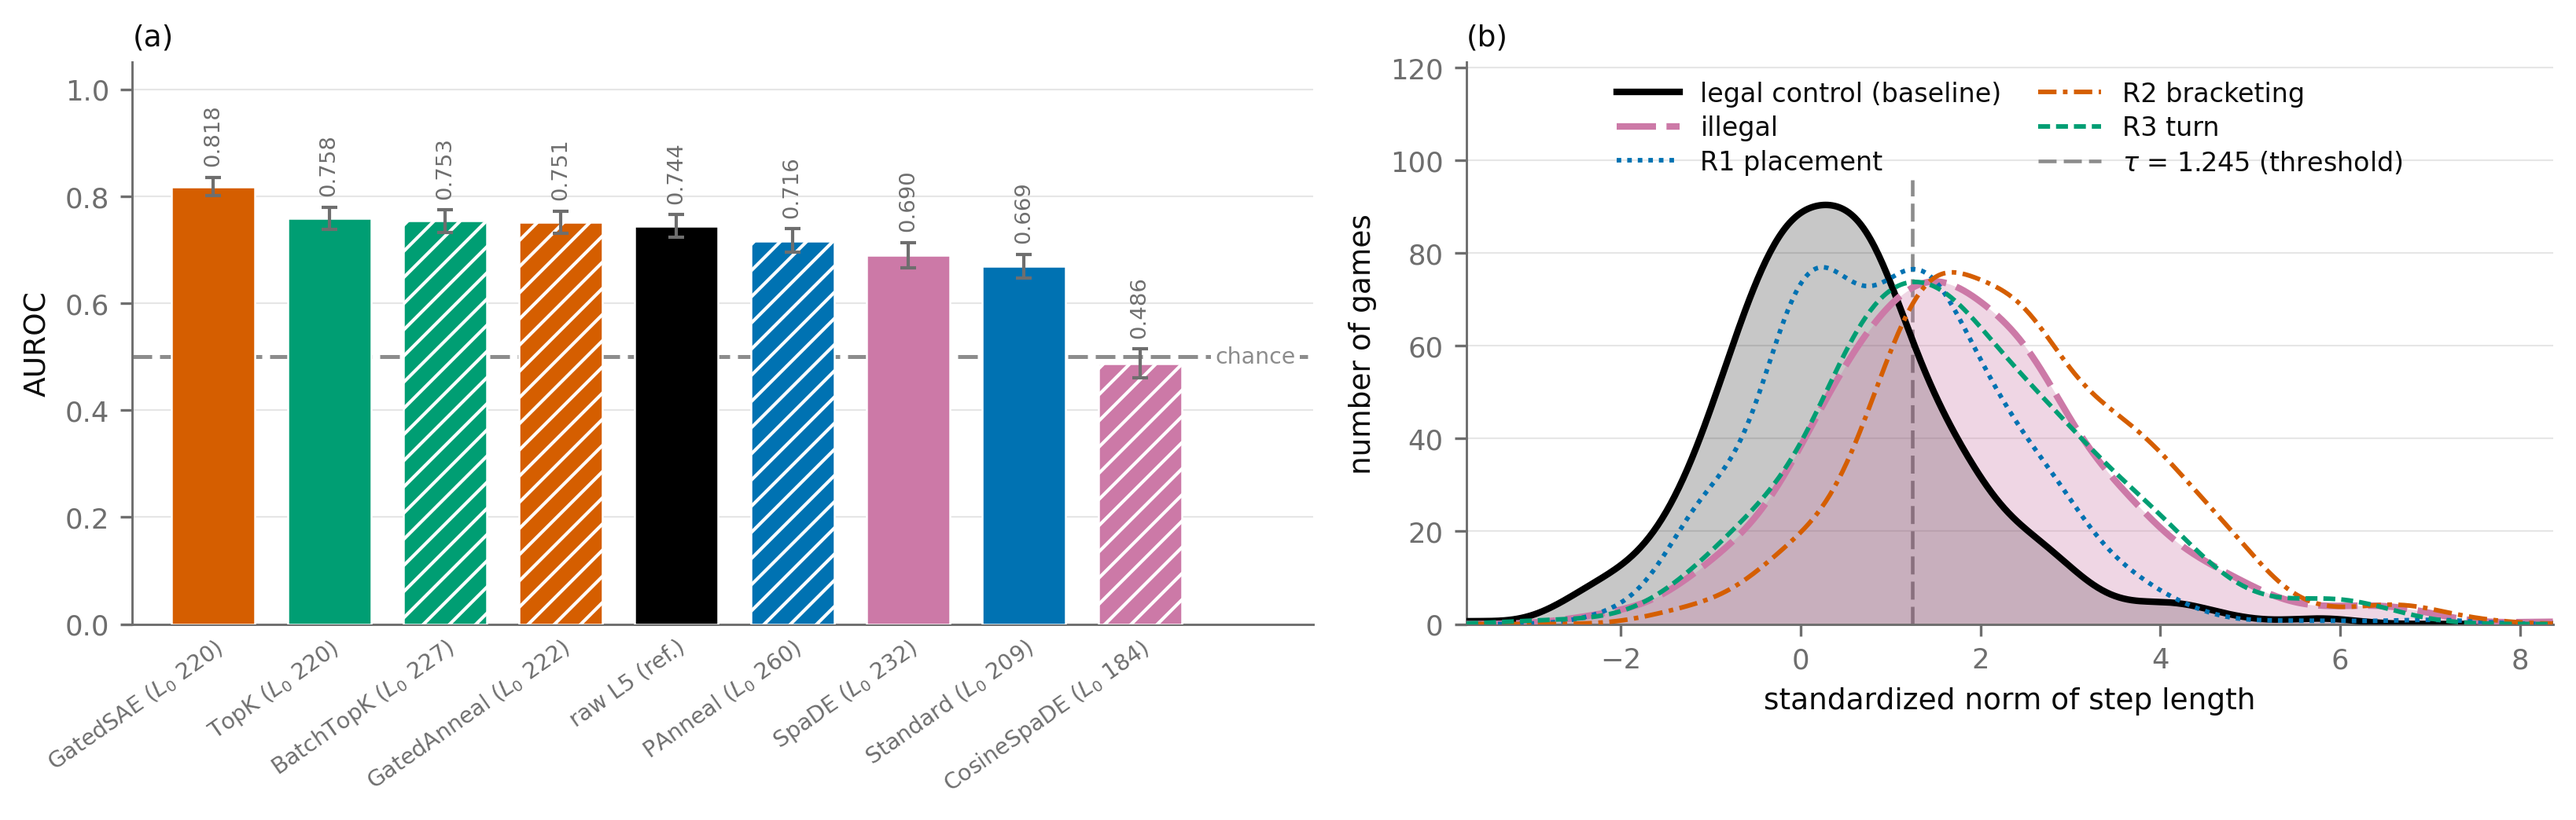
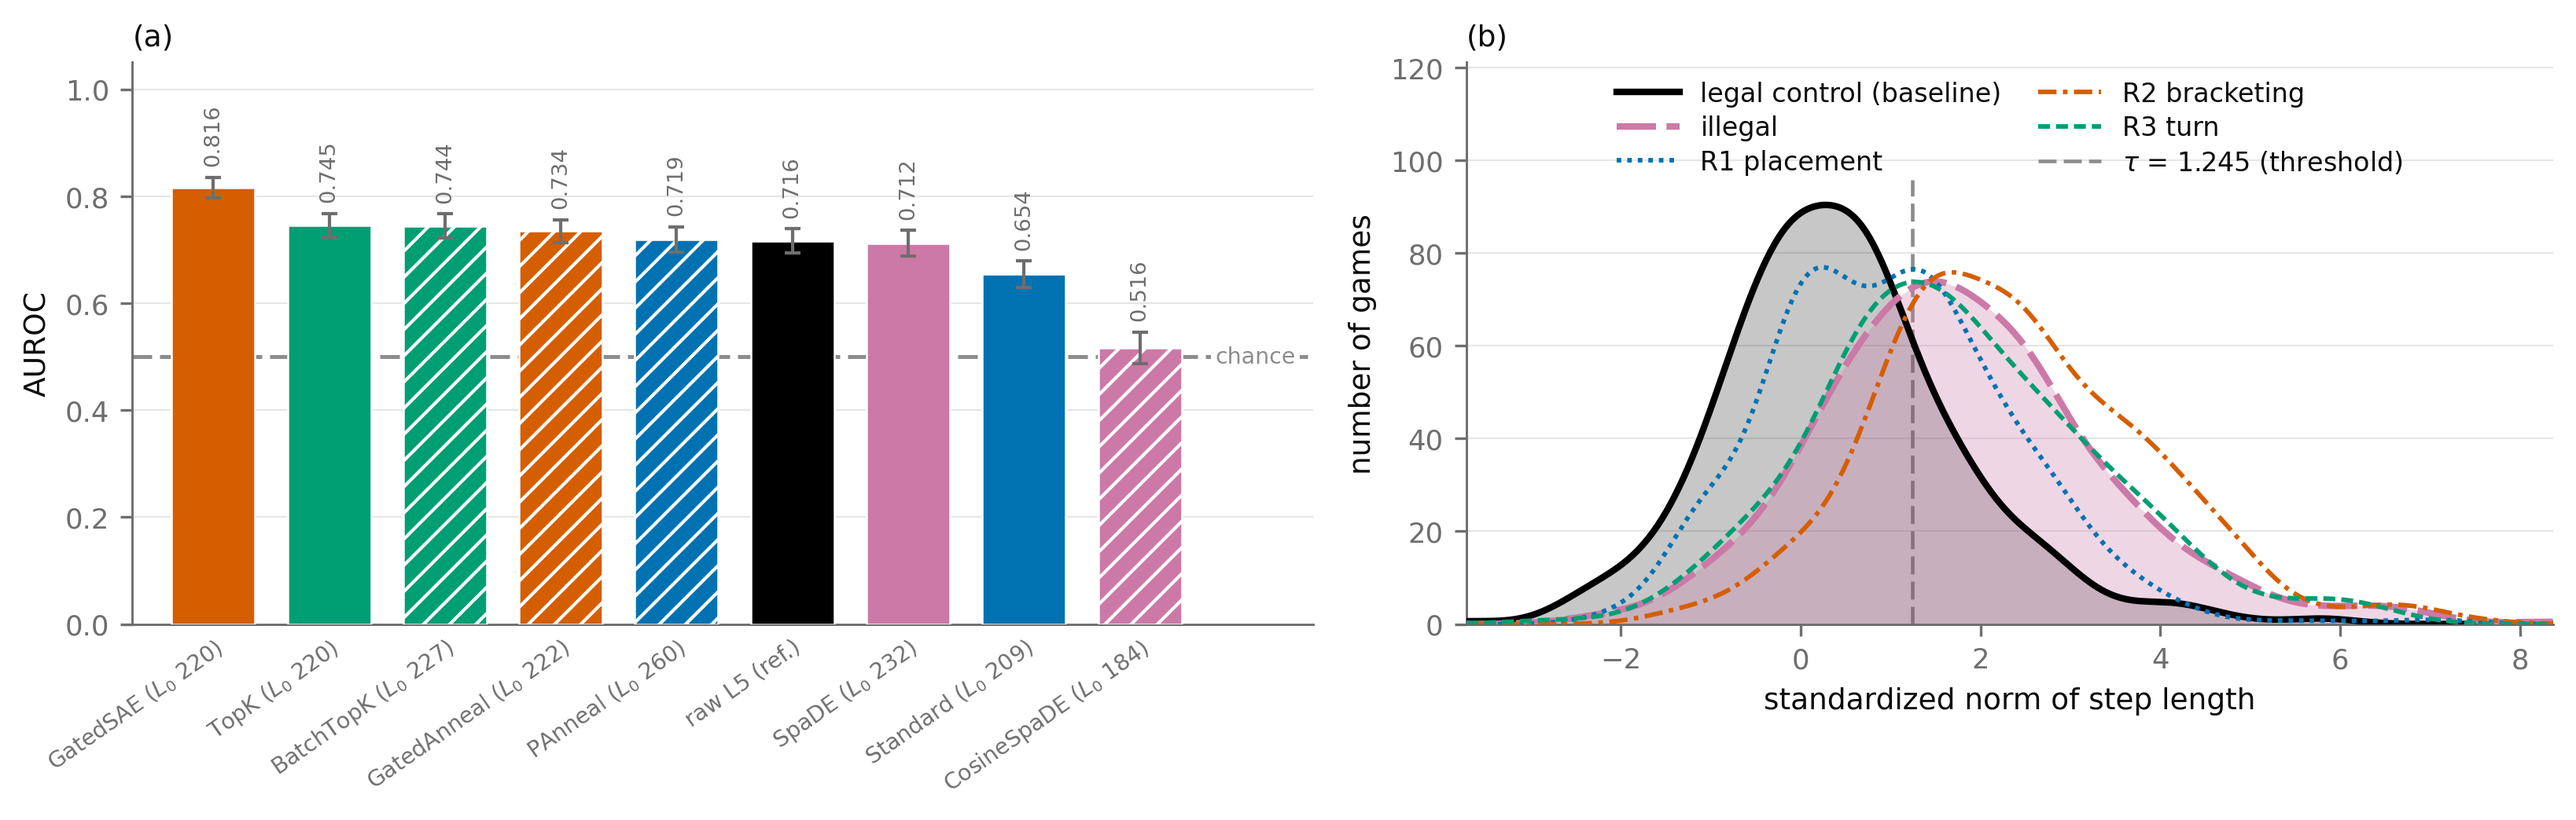
The two variants of threshold_detection were on two populations
`make_figures.py --l0-matched` asked for `threshold_detection_l0_matched.csv`,
which nothing wrote. The nearest table, `threshold_localization_l0_matched.csv`,
is `measure.py --l0-matched` on the 575-game `curvature_discriminant` tree
(t0 16-34, 46% of it at t0 = 20), while panel (b) is always drawn from
`illegal_move_detector`'s 500-game evaluation set -- so pointing (a) at it would
have put 575-game bars beside a 500-game histogram, which `draw_threshold`'s
`n_games` assert exists to stop, and neither could the matched bars be compared
with the canonical ones.

`measure_detector.py` grows the same `--l0-matched` flag the other scripts have
and writes the missing table on those 500 games. `measure.positions` and
`measure.threshold_row` are untouched: only the population and the space roster
move, and the eight `d_l0_<space>.npz` the detector corpus already holds meant no
new encode pass. Both panels now check their own draw against
`illegal_move_detector/results/eval_games.csv` (n = 500, 20 games at each of
t0 = 10..34), and every canonical CSV and PNG of both studies re-renders
byte-identically.

It changes a result, and now it is a like-for-like one. GatedAnneal tops the
canonical bars at 0.851 [0.832, 0.870] and at matched L0 lands fourth of nine at
0.734 [0.713, 0.756], with raw layer 5's 0.716 inside that interval; GatedSAE
takes the top at 0.816 and panel (b) is drawn there. Spearman between the two
[…]

diff --git a/analysis/violation_divergence/changepoint_localization/make_figures.py b/analysis/violation_divergence/changepoint_localization/make_figures.py
@@ -34,7 +34,9 @@ caption is the paragraph under "Results" in README.md. These figures are not sta
 per architecture seated at the shared L0, so a difference between two bars is the architecture
 and not its sparsity. Same panels, same estimator, same styling -- a pick keeps its family's
 hue and hatch and its tick label carries the L0 it was seated at. The canonical figures are
-untouched by it.
+untouched by it. Both variants of `threshold_detection` read the SAME 500 games, because
+`measure_detector.py --l0-matched` scores that roster on this corpus; the matched bars are
+therefore comparable with the canonical bars and not only with each other.
 
 Usage: python analysis/violation_divergence/changepoint_localization/make_figures.py
            [--camera-ready] [--l0-matched]
@@ -158,7 +160,8 @@ def main() -> None:
     parser = argparse.ArgumentParser(description=__doc__)
     parser.add_argument("--camera-ready", dest="camera_ready", action="store_true")
     parser.add_argument("--l0-matched", dest="l0_matched", action="store_true",
-                        help="draw the tables measure.py --l0-matched wrote")
+                        help="draw the tables measure.py --l0-matched and "
+                             "measure_detector.py --l0-matched wrote")
     args = parser.parse_args()
 
     apply_style(args.camera_ready)

diff --git a/analysis/violation_divergence/changepoint_localization/measure_detector.py b/analysis/violation_divergence/changepoint_localization/measure_detector.py
@@ -15,9 +15,9 @@ population is the same one, checked here rather than assumed.
 `--l0-matched` swaps the seed-42 roster for the eight `l0_operating_point` picks, one
 checkpoint per architecture seated at the shared L0, so a difference between two bars is the
 architecture and not its sparsity. Population, statistic and operating point are untouched, so
-the matched table is comparable with the canonical one row for row -- which it would not be if
-the matched figure kept reading `threshold_localization_l0_matched.csv`, a table on the other
-corpus that no histogram of these 500 games can be drawn beside.
+the matched table is comparable with the canonical one row for row -- which it was not while
+the matched figure read `threshold_localization_l0_matched.csv`, a table on the other corpus
+that no histogram of these 500 games can be drawn beside.
 
 Writes results/threshold_detection[_l0_matched].csv.
 

diff --git a/PROCESS.md b/PROCESS.md
@@ -4228,3 +4228,33 @@ byte-identically.
   which carry a wall-clock `/CreationDate` from before that convention — the same
   pre-existing mismatch this file already records, and the differing bytes are the date
   string and the xref offsets it shifts.
+
+## `threshold_detection`'s two variants were on two corpora (2026-08-24)
+
+The canonical figure and its `--l0-matched` twin were built by two efforts that merged
+independently, and they did not meet in the middle. `make_figures.py --l0-matched` asked for
+`results/threshold_detection_l0_matched.csv`, which nothing wrote; what existed was
+`threshold_localization_l0_matched.csv`, `measure.py --l0-matched` on the 575-game
+`curvature_discriminant` tree (t0 16–34, 46% of it at t0 = 20). Panel (b) is always drawn from
+`illegal_move_detector`'s 500-game evaluation set, so pointing (a) at that table would have put
+575-game bars beside a 500-game histogram — which is what `draw_threshold`'s
+`n_games` assert exists to stop.
+
+- **`measure_detector.py` grew the `--l0-matched` flag** the other scripts already had, and
+  writes `threshold_detection_l0_matched.csv` on the same 500 games, with `measure.positions`
+  and `measure.threshold_row` untouched. Only the population and the space roster move, so
+  the matched bars are now comparable with the canonical bars and not merely with each other:
+  raw layer 5 is the same 0.7164 in both tables, by construction.
+- **No GPU pass was needed.** The eight `d_l0_<space>.npz` that `extract_geometry.py
+  --l0-matched` wrote into `$SPADE_DIVERGENCE_DIR/illegal_move_detector/` already cover the
+  whole 21,735-row corpus, aligned to `meta.npz`, and `detector.geometry_path` /
+  `profile_path` already resolve a roster space. The flag was the only thing missing.
+- **GatedAnneal's lead does not survive the match, on one population.** Canonical: 0.851
+  [0.832, 0.870], first of nine. Matched: 0.734 [0.713, 0.756], fourth, with raw layer 5 at
+  0.716 inside its interval. GatedSAE takes the top (0.816) and panel (b) is drawn there.
+  Spearman between the two orderings over the eight dictionaries is 0.86 and the spread
+  collapses: canonical 0.539–0.851, matched 0.516–0.816, with five of the eight picks within
+  0.03 of raw.
+- **`threshold_localization_l0_matched.csv` stays.** It is a valid measurement on the branch
+  tree and is column-comparable with `threshold_localization.csv`; it is simply no longer a
+  figure's input.

diff --git a/analysis/violation_divergence/changepoint_localization/README.md b/analysis/violation_divergence/changepoint_localization/README.md
@@ -184,11 +184,19 @@ does here**, and the spread across the eight shrinks from 0.511-0.616 to 0.531-0
 canonical table as ranking sparsity as much as it ranks architecture.
 
 The per-position cut tells the same story on a more sensitive read
-(`figures/threshold_detection_l0_matched.png`,
-`results/threshold_localization_l0_matched.csv`, 26,252 positions over the same 575 games):
-GatedSAE 0.818 [0.800, 0.835], TopK 0.758, BatchTopK 0.753, GatedAnneal 0.751, raw 0.744,
-PAnneal 0.716, SpaDE 0.690, Standard 0.669, CosineSpaDE 0.486 [0.461, 0.515] -- the one space
-that inverts. Panel (b) is drawn in GatedSAE, the space panel (a) now ranks first.
+(`figures/threshold_detection_l0_matched.png`, `results/threshold_detection_l0_matched.csv`,
+34,000 positions over the 500-game evaluation set): GatedSAE 0.816 [0.797, 0.835], TopK 0.745,
+BatchTopK 0.744, GatedAnneal 0.734, PAnneal 0.719, raw 0.716, SpaDE 0.712, Standard 0.654,
+CosineSpaDE 0.516 [0.487, 0.546] -- the one space at chance. Panel (b) is drawn in GatedSAE,
+the space panel (a) now ranks first.
+
+That table is the corpus `threshold_detection.csv` is on, so the matched figure and the
+canonical one are **one comparison**: raw layer 5 is the same 0.716 in both, and against the
+seed-42 roster on those same 500 games GatedAnneal goes 0.851 to 0.734 and gives up the lead,
+while five of the eight picks land within 0.03 of raw. Spearman between the two orderings over
+the eight dictionaries is 0.86. `results/threshold_localization_l0_matched.csv` is this same
+read-out on the 575-game branch tree, column-comparable with `threshold_localization.csv`; no
+figure draws it, because no histogram of the 500 games can be set beside it.
 
 Two caveats a reader is owed. **The two SAE families are not fed one input convention**: ours
 were trained on `scale*(x - mean)` and Karvonen's on the raw residual, so each is fed what it
